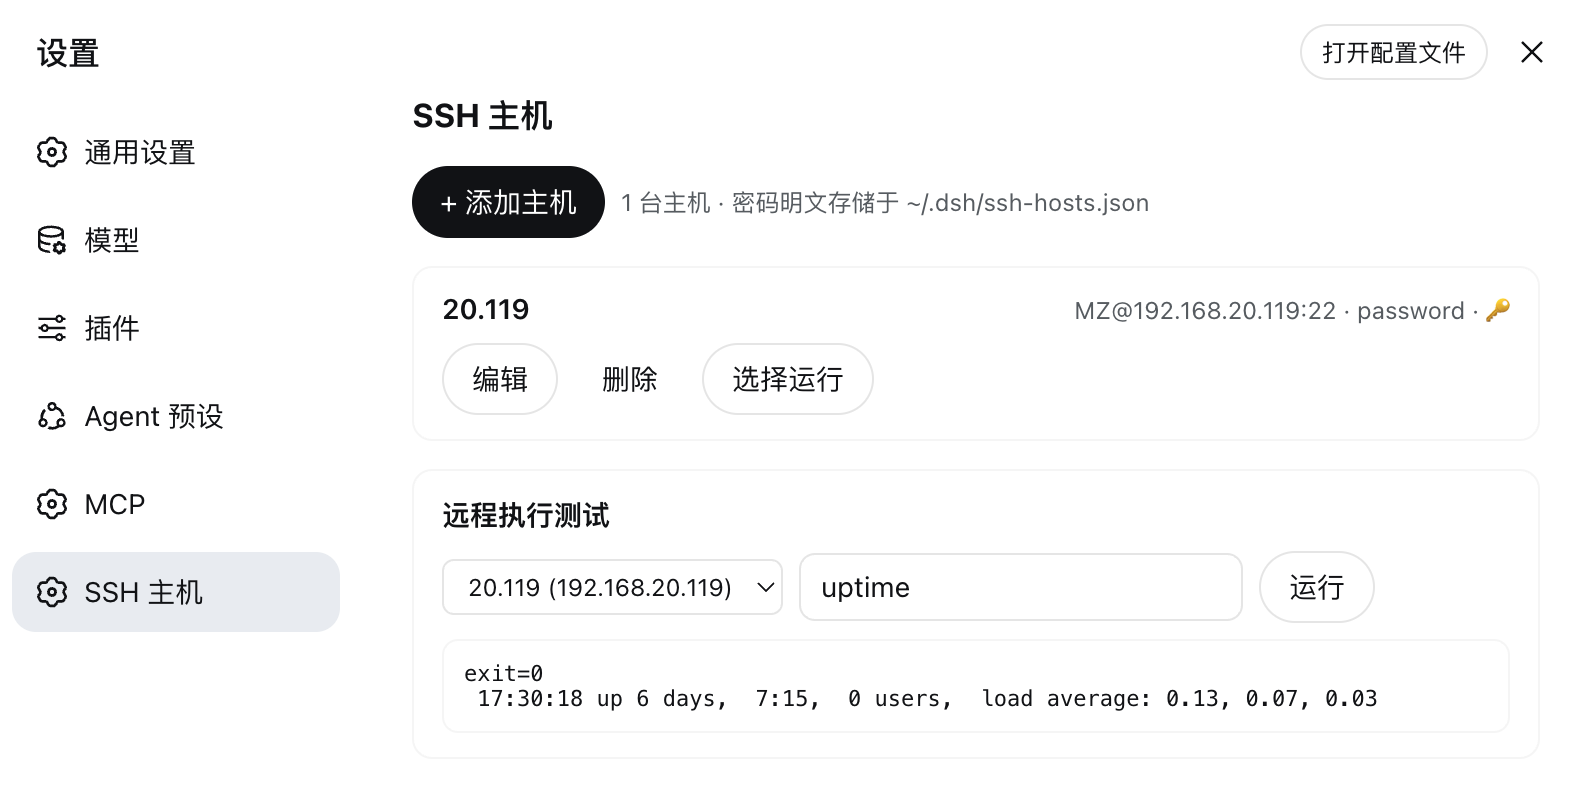
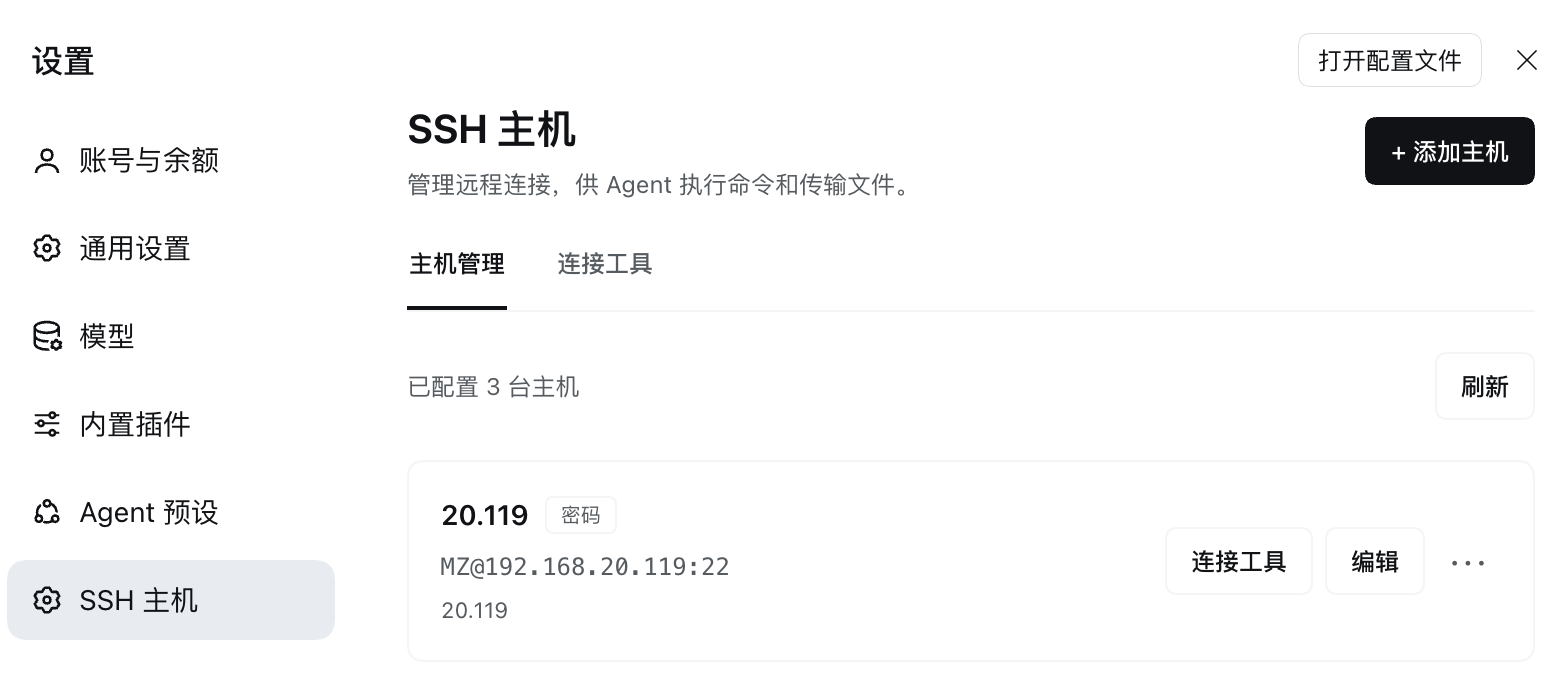
docs: refresh README layout and settings screenshot
Reorganize installation, usage, tool reference, and troubleshooting guidance. Replace the settings screenshot and record documentation validation.

diff --git a/README.md b/README.md
@@ -1,121 +1,191 @@
 # dsh-ssh
 
-DeepSeek Harness (DSH) 插件：**SSH 主机管理 + 远程 Bash 执行**。
+为 **DeepSeek Harness** 提供 SSH 主机管理、远程命令执行与文件传输。
 
-当前版本面向 **DeepSeek Harness 桌面版 0.2.2-rc.1**，使用一个 Host bundle 注册服务、工具和设置页面。安装到对应 profile 后，所有 session（任意 preset）的 Agent 均可使用 SSH 工具。设置页面默认展示主机列表，新增和编辑按连接信息、身份认证、更多选项分组；执行命令与文件传输位于「连接工具」。桌面与 Web 提供「SSH 主机」设置页面；不提供浏览器界面的 profile 仅注册服务和工具。
+在设置中保存一次连接信息，即可让任意 Agent 会话使用 SSH 工具；也可以直接在界面中测试连接、上传和下载文件。
 
-## 截图
+![SSH 主机管理：主机列表、认证方式与连接操作](docs/screenshot/screenshot.png)
 
-### SSH 主机设置页面
-
-![设置页面](docs/screenshot/screenshot.png)
-
-### Agent 使用 ssh_bash
-
-![Agent 使用 ssh_bash](docs/screenshot/agent_using_ssh.png)
+[安装](#安装) · [开始使用](#开始使用) · [工具一览](#工具一览) · [更新与卸载](#更新与卸载) · [常见问题](#常见问题) · [开发说明](#开发说明)
 
 ## 功能
 
-- **主机管理（增删改查、复制）**：持久化到 `$DSH_HOME/ssh-hosts.json`，未设置 `DSH_HOME` 时为 `~/.dsh/ssh-hosts.json`。
-- **模型工具**：`ssh_host_list` / `ssh_host_add` / `ssh_host_update` / `ssh_host_remove` / `ssh_host_copy` / `ssh_bash` / `ssh_upload` / `ssh_download`。
-- **Cordis 服务 `ssh.hosts`**：供其他声明依赖该服务的插件调用。
-- **三种认证**：`agent`（BatchMode 免交互）/ `key`（私钥）/ `password`（`SSH_ASKPASS`，无需 sshpass、不申请 pty）。
-- **文件传输**：上传、下载上限 128MB，使用 base64 over ssh，无需 scp，支持 BusyBox 设备，自动创建父目录。
-- **自适应远端 Shell**：默认优先 bash，无则回落 sh/ash；可按主机或单次调用指定。
+| 能力 | 说明 |
+| --- | --- |
+| 主机管理 | 添加、编辑、复制和删除主机，统一保存连接信息 |
+| 多种认证 | 支持 SSH Agent、私钥和密码认证 |
+| 远程执行 | 支持多行脚本；自动选择 bash，无 bash 时回落到 sh/ash |
+| 文件传输 | 上传本地文件、下载远端文件，自动创建父目录；上传最大 128 MB |
+| 图形界面 | 主机管理与连接工具分开，认证字段按所选方式显示 |
+| Agent 工具 | 安装到对应 profile 后，各会话可使用全部 8 个 SSH 工具 |
 
-## 安装到桌面版
+## 安装
 
-桌面版 **0.2.2-rc.1 的 desktop profile 由 Electron 应用独占管理**，不能使用 `dsh plugin --profile desktop`，即使 CLI 版本一致也会被拒绝。请保持桌面应用打开，通过应用内插件管理器安装。
+当前插件版本为 **2.2.2**，已在 **DeepSeek Harness 桌面版 0.2.2-rc.1** 验证。运行环境需要本机 SSH 客户端；Node.js 要求为 22 或更新版本。
 
-1. 打开桌面应用的「插件」页面。
-2. 点击「添加插件」→「安装第三方插件」。
-3. 在「包名或地址」中填写本机仓库的绝对目录路径，例如：
+### 桌面版（推荐）
+
+通过桌面应用内的插件管理器安装：
+
+1. 打开「插件」→「添加插件」→「安装第三方插件」。
+2. 在「包名或地址」填写仓库地址：
 
    ```text
-   /Users/Daniel.Duan/Work/DSH/dsh-ssh
+   https://github.com/dmz2922990/dsh-ssh.git
    ```
 
-4. 按界面完成安装；如提示重启，重启桌面应用。随后在设置中打开「SSH 主机」。
+3. 完成安装后，完全退出并重新打开应用。
+4. 打开「设置」→「SSH 主机」。
 
-安装器支持本地目录、npm 包和 Git 仓库地址。当前本地修复尚未发布到远端时，请使用本地目录。插件声明了 `dsh.bundle`，安装器会自动管理 bundle 层，无需手动编辑 desktop profile 的 `package.json` 或 `cordis.patch.yml`。
+本地开发时，也可以填写已克隆仓库的**绝对目录路径**。
 
-本地目录通常以 `link:` 安装。修改本仓库后，页面代码可能自动刷新，但后台 `index.mjs` 不会自动重载。**每次修改后端后都应完全退出桌面应用（macOS 使用 ⌘Q），再重新打开**，不要只关闭设置或刷新页面。在「插件 → dsh-ssh」详情中确认已加载版本；若新版页面出现 HTTP 404/405，先检查后台是否仍为旧版本，无需反复卸载。
+> 桌面版的 `desktop` profile 由应用管理，不能通过 `dsh plugin --profile desktop` 安装。插件会自动注册，无需手动编辑 profile 配置。
 
-## 安装到 Web 版
-
-Web profile 可以使用 CLI：
+### Web 版
 
 ```bash
-npx @deepseek-ai/dsh@0.2.2-rc.1 plugin --profile web add /absolute/path/to/dsh-ssh
+npx @deepseek-ai/dsh@0.2.2-rc.1 plugin --profile web add https://github.com/dmz2922990/dsh-ssh.git
 ```
 
-安装后重启 Web 进程。不要将同一插件安装、手动挂载或动态加载多份，也不要让多个进程同时修改同一份主机配置。
+安装后重启 Web 进程。本地开发时可将仓库地址替换为本机仓库的绝对路径。
+
+## 开始使用
+
+### 1. 添加主机
+
+在「主机管理」中点击「添加主机」，填写主机标识、地址、用户名和端口，再选择认证方式。
+
+| 认证方式 | 需要填写的内容 |
+| --- | --- |
+| SSH Agent | 使用本机 Agent 或默认 SSH 配置中的身份 |
+| 私钥 | 本地私钥文件路径，例如 `~/.ssh/id_ed25519` |
+| 密码 | 登录密码；编辑已有主机时，留空保留原密码 |
+
+主机标识供 Agent 引用，创建后不可修改；显示名称可以随时调整。远端 Shell 和备注位于「更多选项」。复制主机会继承源主机的认证信息。
+
+### 2. 测试连接或传输文件
+
+点击主机卡片上的「连接工具」，选择需要的操作：
+
+- **执行命令**：例如 `hostname && uptime`，查看输出与退出码。
+- **传输文件**：选择上传或下载，填写本地和远端路径。
+
+### 3. 让 Agent 使用主机
+
+在会话中直接描述目标和操作，例如：
+
+```text
+列出已配置的 SSH 主机。
+在 build-server 上执行 hostname 和 uptime。
+将本地 /tmp/config.conf 上传到 build-server 的 /tmp/config.conf。
+```
+
+Agent 会调用插件工具；使用主机标识可避免名称或地址产生歧义。
+
+<details>
+<summary>查看 Agent 调用示例截图</summary>
+
+![Agent 调用 ssh_bash 执行远程命令](docs/screenshot/agent_using_ssh.png)
+
+</details>
+
+## 工具一览
+
+| 工具 | 用途 |
+| --- | --- |
+| `ssh_host_list` | 列出主机，不返回密码明文 |
+| `ssh_host_add` | 添加主机 |
+| `ssh_host_update` | 更新指定字段，省略的认证字段保持不变 |
+| `ssh_host_copy` | 复制主机及认证信息 |
+| `ssh_host_remove` | 删除主机 |
+| `ssh_bash` | 执行远程脚本，支持超时和远端 Shell 选择 |
+| `ssh_upload` | 上传本地文件 |
+| `ssh_download` | 下载远端文件 |
+
+## 配置与数据
+
+| 文件 | 默认位置 | 用途 |
+| --- | --- | --- |
+| 主机配置 | `~/.dsh/ssh-hosts.json` | 保存主机与认证信息，写入权限为 `0600` |
+| 密码辅助脚本 | `~/.dsh/.ssh-askpass.sh` | 为 SSH 提供密码，权限为 `0700` |
+
+设置 `DSH_HOME` 后，这些文件位于对应数据目录。配置采用原子替换写入；损坏或不可读的文件会报错，不会被当成空配置覆盖。
+
+**密码以明文保存在本机配置文件中，建议优先使用私钥。** 主机列表和管理工具返回值仅包含 `hasPassword`，不返回密码。不要让多个进程同时修改同一份主机配置，也不要同时挂载多份插件。
 
 ## 更新与卸载
 
-**桌面版**：在应用内「插件」页面管理 `dsh-ssh`。有「更新」操作时通过该操作更新；切换安装来源（例如从 Git 改为本地目录）时，先卸载，再通过「添加插件」安装本地目录。卸载使用插件条目的「卸载」操作，并按界面提示重启。
+**桌面版**：在应用内「插件」页面管理 `dsh-ssh`，使用可用的更新或卸载操作。切换安装来源时，先卸载，再从新来源安装。
 
-**Web 版**：可通过对应 profile 的 CLI 操作：
+**Web 版**：
 
 ```bash
+# 更新
 npx @deepseek-ai/dsh@0.2.2-rc.1 plugin --profile web update dsh-ssh
+
+# 卸载
 npx @deepseek-ai/dsh@0.2.2-rc.1 plugin --profile web remove dsh-ssh
 ```
 
-卸载或禁用插件会释放工具、RPC 处理程序、设置页面和样式，并取消该实例正在运行的命令。**主机配置和认证信息会保留**，重新安装可继续使用。需要清除数据时，先自行备份，再单独删除数据目录中的 `ssh-hosts.json` 和 `.ssh-askpass.sh`；不要删除整个 DSH 数据目录。
+**更新后请完全退出并重新打开应用。** 本地目录通常以 `link:` 安装：页面代码可能自动刷新，但后端不会自动重载；仅关闭设置、关闭窗口或刷新页面不一定生效。macOS 可使用 ⌘Q 退出，并在重开后核对插件详情中的版本。
 
-若曾手动将 `dsh-ssh` 插件行添加到 profile 覆盖配置，卸载时也需移除该手动配置，以免留下无法解析的插件行。
+卸载保留主机配置和认证信息，重新安装可以继续使用。运行中的工具、路由和页面会随插件释放，命令会收到取消信号。需要清除数据时，先备份，再单独删除上述两个文件，不要删除整个 DSH 数据目录。手动添加过插件挂载行的用户，还需移除对应配置。
 
-## 从旧预设或动态插件迁移
+## 常见问题
 
-新版 Harness 使用声明式 Agent preset，不再通过 `~/.dsh/.agent-presets/ssh` 自动发现本插件。当前发布只保留 Host bundle，不再提供旧 `preset/`、动态 `plugin/` 或独立 `webapi.mjs` 入口。
+### 页面报 HTTP 404 / 405
 
-1. 备份原 `~/.dsh/ssh-hosts.json`；使用自定义数据目录时，将文件放到对应 `$DSH_HOME` 下。
-2. 卸载会话中原来的动态 SSH 插件，移除手动挂载的旧 SSH preset/plugin 行，停止使用旧「SSH Agent」预设；确认无引用后再清理旧预设目录。
-3. 按上述步骤安装 Host bundle，重新启动应用，以当前内置预设创建会话。
+先核对「插件 → dsh-ssh」中的运行版本，并完全退出应用再打开。本地链接安装可能出现“页面已更新、后端仍运行旧代码”的情况，无需反复卸载。
 
-不要同时运行新旧入口：它们会注册同名工具，并可能用各自缓存覆盖同一份配置。
+### 出现 `unix_listener: cannot bind ... Operation not permitted`
 
-## 配置与通信
+旧版本可能继承本机 SSH 连接复用配置，在受限目录创建控制套接字时失败。2.2.2 已统一为执行、上传和下载关闭连接复用。请更新并完全重启，无需修改 `~/.ssh/config` 或扩大目录权限。
 
-主机配置采用原子替换写入，新文件权限为 `0600`。配置文件损坏、格式不合法或不可读时会显示错误，不会把它当成空配置后覆盖。插件实例内的修改按顺序保存；不支持多个进程同时编辑同一文件。
+### 出现后量子密钥交换警告
 
-设置页面通过 Harness Connection RPC `/api/dsh-ssh/request` 与后端通信，复用 Harness 的连接与认证。旧 `/dsh-ssh/api/*` HTTP 接口不再提供。桌面版内置的浏览器界面也使用这套 RPC；无浏览器服务时仍可使用模型工具。
+该警告说明当前连接未使用后量子密钥交换。是否执行成功应结合退出码、超时和中止状态判断；插件保留警告及默认算法协商。服务器侧可升级支持相应算法的 SSH 实现，参见 [OpenSSH 官方说明](https://www.openssh.org/pq.html)。
 
-## 远程执行原理
+### 从旧预设或动态插件迁移
 
-```bash
-ssh -o StrictHostKeyChecking=accept-new -o ConnectTimeout=15 -o ControlMaster=no -o ControlPath=none -o ControlPersist=no [-i key] [-p port] user@host -- bash -s
-```
+当前仅维护 Host bundle，旧 `preset/`、动态 `plugin/` 和独立 `webapi.mjs` 入口已移除。
 
-脚本通过 stdin 传给远端 shell。密码认证使用 `SSH_ASKPASS` 和 `SSH_ASKPASS_REQUIRE=force`；辅助脚本位于数据目录的 `.ssh-askpass.sh`，权限为 `0700`，仅读取进程环境中的密码。
+1. 备份原主机配置；自定义 `DSH_HOME` 时，将其放入对应数据目录。
+2. 移除旧动态插件和手动挂载行，停止使用旧「SSH Agent」预设。
+3. 安装当前插件，重启后使用内置预设创建会话。
 
-插件的执行、上传、下载均使用独立连接，显式关闭 `ControlMaster`、`ControlPath` 和 `ControlPersist`，避免继承本机连接复用配置后尝试在 `~/.ssh` 创建控制套接字而被执行环境拒绝。其余 SSH 配置仍可正常生效，无需修改用户 SSH 配置或扩大目录权限。
+## 开发说明
 
-如果输出包含 `connection is not using a post-quantum key exchange algorithm`，这是当前连接未使用后量子密钥交换的安全警告，不能仅凭该警告判断命令失败；实际结果由退出码、超时或中止状态决定。插件保留警告和默认算法协商，服务器侧可通过升级 SSH 实现改善协商。[OpenSSH 官方说明](https://www.openssh.org/pq.html)。
+### 服务 API
 
-## `ssh.hosts` 服务 API
-
-调用方应声明对 `ssh.hosts` 的依赖，再读取服务：
+其他插件可声明依赖 `ssh.hosts`，再调用服务：
 
 ```js
 const ssh = ctx.get('ssh.hosts')
-await ssh.list()                              // Redacts passwords.
-await ssh.get(ref)                            // ref: id | name | user@host | host
+await ssh.list()
+await ssh.get(ref)
 await ssh.add({ id, host, port, user, name, note, shell, auth: { type, keyPath, password }, tags })
-await ssh.update(id, patch)                   // Omit auth fields to preserve credentials.
+await ssh.update(id, patch)
+await ssh.copy(ref, { id, host, name })
 await ssh.remove(id)
-await ssh.bash(ref, command, timeoutMs, shell) // Returns execution status and output.
-await ssh.upload(ref, localPath, remotePath)   // Maximum 128MB.
-await ssh.download(ref, remotePath, localPath) // Maximum 128MB.
-await ssh.copy(ref, { id, host, name })        // Copies credentials without returning them.
+await ssh.bash(ref, command, timeoutMs, shell)
+await ssh.upload(ref, localPath, remotePath)
+await ssh.download(ref, remotePath, localPath)
 ```
 
-## 认证信息
+`ref` 支持主机标识、名称、`user@host` 或地址。更新时省略认证字段以保留原值。
 
-- 密码以**明文**保存在主机配置文件中，建议优先使用密钥认证。
-- 主机列表与工具返回值不含密码明文，只返回 `hasPassword` 布尔值。
+### 实现与验证
 
-## 开发验证
+- 设置页面复用 Harness 的认证通道 `/api/dsh-ssh/request`。
+- 远程脚本通过 SSH stdin 传入；密码认证使用 `SSH_ASKPASS`，无需 sshpass 或 pty。
+- 文件通过 base64 over SSH 传输，无需 scp。
+- 显式关闭 `ControlMaster`、`ControlPath` 和 `ControlPersist`，其他 SSH 配置仍可生效。
 
-运行 `npm test` 验证存储、执行接口和设置页面。设置 `DSH_RUNTIME_DIR` 为目标 Harness 的 `node_modules` 目录后，还会运行真实 Cordis/Tools 生命周期集成测试；未设置时会明确跳过这三项。验证使用临时数据，不会连接真实 SSH 主机。
+```bash
+npm test
+
+# 加载目标 Harness 的真实运行时，执行额外集成测试
+DSH_RUNTIME_DIR=/absolute/path/to/harness/node_modules npm test
+```
+
+未设置 `DSH_RUNTIME_DIR` 时，三项运行时集成测试会明确跳过。自动化测试使用临时配置，不连接真实 SSH 主机。

diff --git a/tasks/todo.md b/tasks/todo.md
@@ -61,3 +61,12 @@
 方案：插件每次调用使用独立 SSH 进程，不继承全局 ControlMaster/ControlPath/ControlPersist；不改动用户 ~/.ssh/config，不忽略后量子协商警告，不调整算法或放宽桌面权限。
 
 验证结果：版本 2.2.2，17 项回归全部通过；真实 ssh -G 覆盖执行/上传/下载并保留其他 SSH 选项。通过应用菜单完整退出桌面（确认 isRunning=false）后重新启动，在原报错主机执行 hostname && uptime，退出码 0，返回主机名和运行时间；unix_listener 错误消失。保留后量子算法警告。实际输出另含 known_hosts 自动更新写入受限提示，但不影响此次命令；未修改 known_hosts、全局 SSH 配置、算法或权限。
+
+## README 展示优化
+
+- [x] 使用用户提供的新设置截图替换旧图，保留原图内容
+- [x] 按功能、安装、使用、工具、数据、维护、问题与开发说明重新组织
+- [x] 将旧 Agent 截图收进折叠区域，移除个人路径与过时未发布说明
+- [x] 核对图片引用与 Markdown 差异
+
+复盘：本次仅修改文档和截图，不修改插件功能；新截图由用户明确提供用于文档展示。
